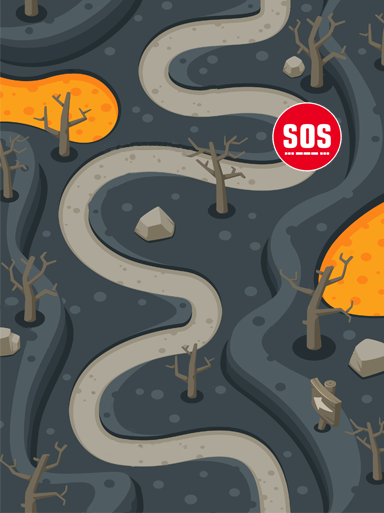
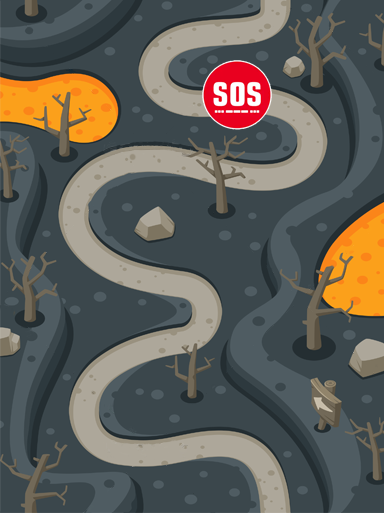
2 quests per tile

Changed region(s): [[0.5312, 0.0936, 0.9062, 0.3431]]

diff --git a/src/app/campaign/campaign.component.html b/src/app/campaign/campaign.component.html
@@ -29,12 +29,40 @@
 </div>
 
 <div *ngIf="showCampaign">
-    <div *ngFor="let questId of questKeys" class="path" [attr.id]="questId" [ngClass]="{'end':questId==campaign.endQuest,'start':questId==campaign.startQuest}">
-        <div class="quest-node" (click)="SelectQuest(questId)" 
-        [ngClass]="{'blink': questId == currentQuestId,'done': campaign.quest[questId].done}">
-            <div *ngIf="questId == currentQuestId && state!='completed'" class="guy"></div>
+    <div *ngFor="let questId of evenQuestKeys; let i = index" class="path" [ngClass]="{'end':(oddQuestKeys[i]==campaign.endQuest||evenQuestKeys[i]==campaign.endQuest),'start':i>=((questKeys.length/2)-1)}">
+        <div *ngIf="questKeys.length % 2 != 0">
+            <div *ngIf="oddQuestKeys[i]">
+                <div class="quest-node" (click)="SelectQuest(oddQuestKeys[i])" [attr.id]="oddQuestKeys[i]"
+                [ngClass]="{'blink': oddQuestKeys[i] == currentQuestId,'done': campaign.quest[oddQuestKeys[i]].done,even: true}">
+                    <div *ngIf="oddQuestKeys[i] == currentQuestId && state!='completed'" class="guy"></div>
+                </div>
+                <div *ngIf="oddQuestKeys[i] == campaign.endQuest && state=='completed'" class="guy guy-won"></div>    
+            </div>
+            <div *ngIf="evenQuestKeys[i]">
+                <div class="quest-node" (click)="SelectQuest(evenQuestKeys[i])" [attr.id]="evenQuestKeys[i]"
+                [ngClass]="{'blink': evenQuestKeys[i] == currentQuestId,'done': campaign.quest[evenQuestKeys[i]].done,odd: true}">
+                    <div *ngIf="evenQuestKeys[i] == currentQuestId && state!='completed'" class="guy"></div>
+                </div>
+                <div *ngIf="evenQuestKeys[i] == campaign.endQuest && state=='completed'" class="guy guy-won"></div>    
+            </div>
         </div>
-        <div *ngIf="questId == campaign.endQuest && state=='completed'" class="guy guy-won"></div>
+        <div *ngIf="questKeys.length % 2 == 0">
+            <div *ngIf="evenQuestKeys[i]">
+                <div class="quest-node" (click)="SelectQuest(evenQuestKeys[i])" [attr.id]="evenQuestKeys[i]"
+                [ngClass]="{'blink': evenQuestKeys[i] == currentQuestId,'done': campaign.quest[evenQuestKeys[i]].done,even: true}">
+                    <div *ngIf="evenQuestKeys[i] == currentQuestId && state!='completed'" class="guy"></div>
+                </div>
+                <div *ngIf="evenQuestKeys[i] == campaign.endQuest && state=='completed'" class="guy guy-won"></div>    
+            </div>
+
+            <div *ngIf="oddQuestKeys[i]">
+                <div class="quest-node" (click)="SelectQuest(oddQuestKeys[i])" [attr.id]="oddQuestKeys[i]"
+                [ngClass]="{'blink': oddQuestKeys[i] == currentQuestId,'done': campaign.quest[oddQuestKeys[i]].done,odd: true}">
+                    <div *ngIf="oddQuestKeys[i] == currentQuestId && state!='completed'" class="guy"></div>
+                </div>
+                <div *ngIf="oddQuestKeys[i] == campaign.endQuest && state=='completed'" class="guy guy-won"></div>    
+            </div>
+        </div>
     </div>
     <div class="path empty"></div>
 </div>

diff --git a/src/app/campaign/campaign.component.ts b/src/app/campaign/campaign.component.ts
@@ -23,6 +23,9 @@ export class CampaignComponent implements OnInit {
 
   questKeys: Array<string>;
 
+  evenQuestKeys: Array<string>;
+  oddQuestKeys: Array<string>;
+
   currentQuestId: string;
   currentQuest: any;
   questStoryOver: boolean = false;
@@ -59,6 +62,14 @@ export class CampaignComponent implements OnInit {
     this.gameservice.FetchSingleCampaign(id,this.userId,this.isGuest).then(campaign => {
       this.campaign = campaign;
       this.questKeys = this.GetQuestKeys(campaign.quest,campaign.startQuest);
+
+      if (this.questKeys.length % 2 != 0) {
+        this.evenQuestKeys = this.questKeys.filter((_, index) => index % 2 == 0)
+        this.oddQuestKeys = this.questKeys.filter((_, index) => index % 2 != 0)
+      } else {
+        this.evenQuestKeys = this.questKeys.filter((_, index) => index % 2 != 0)
+        this.oddQuestKeys = this.questKeys.filter((_, index) => index % 2 == 0)
+      }
 
       // set current quest to the first quest that is not done
       this.currentQuestId = campaign.startQuest;

diff --git a/src/app/campaign/campaign.component.css b/src/app/campaign/campaign.component.css
@@ -143,13 +143,18 @@
     height: 25px;
     
     position: absolute;
-    top: 50%;
+    top: 31%;
     transform:translate(-50%,-50%);
 
-    margin-left: 72.6%; /* this value changes depending on the image path */
+    margin-left: 80%; /* this value changes depending on the image path */
     background-color: rgb(80,80,100);
 
     border: 1px solid #aaaaaa;
+}
+
+.quest-node.even {
+    top: 67.5%;
+    left: -40%;
 }
 
 .done {
